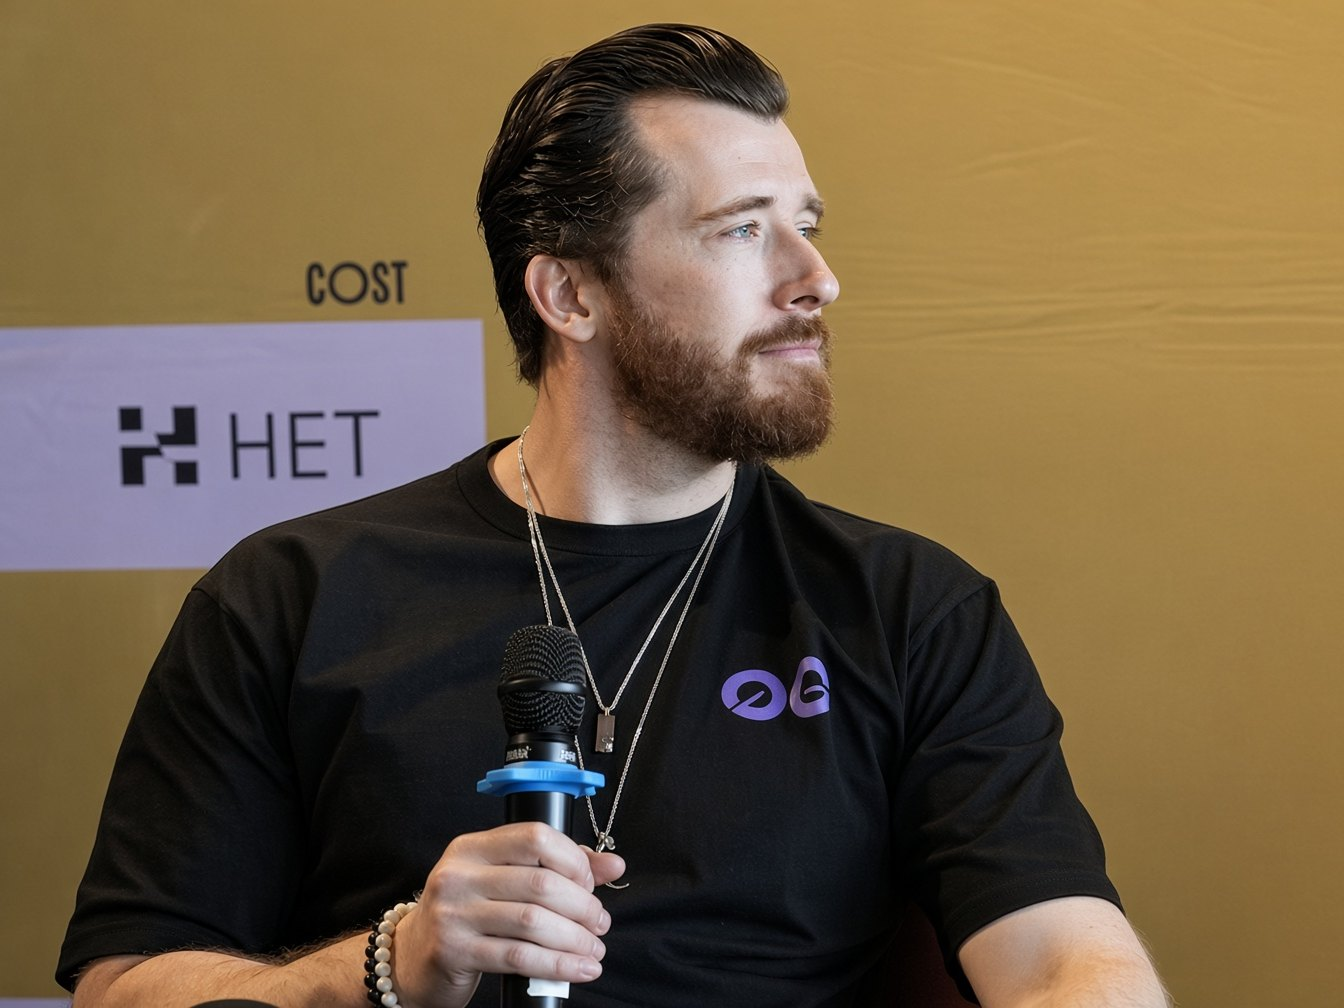
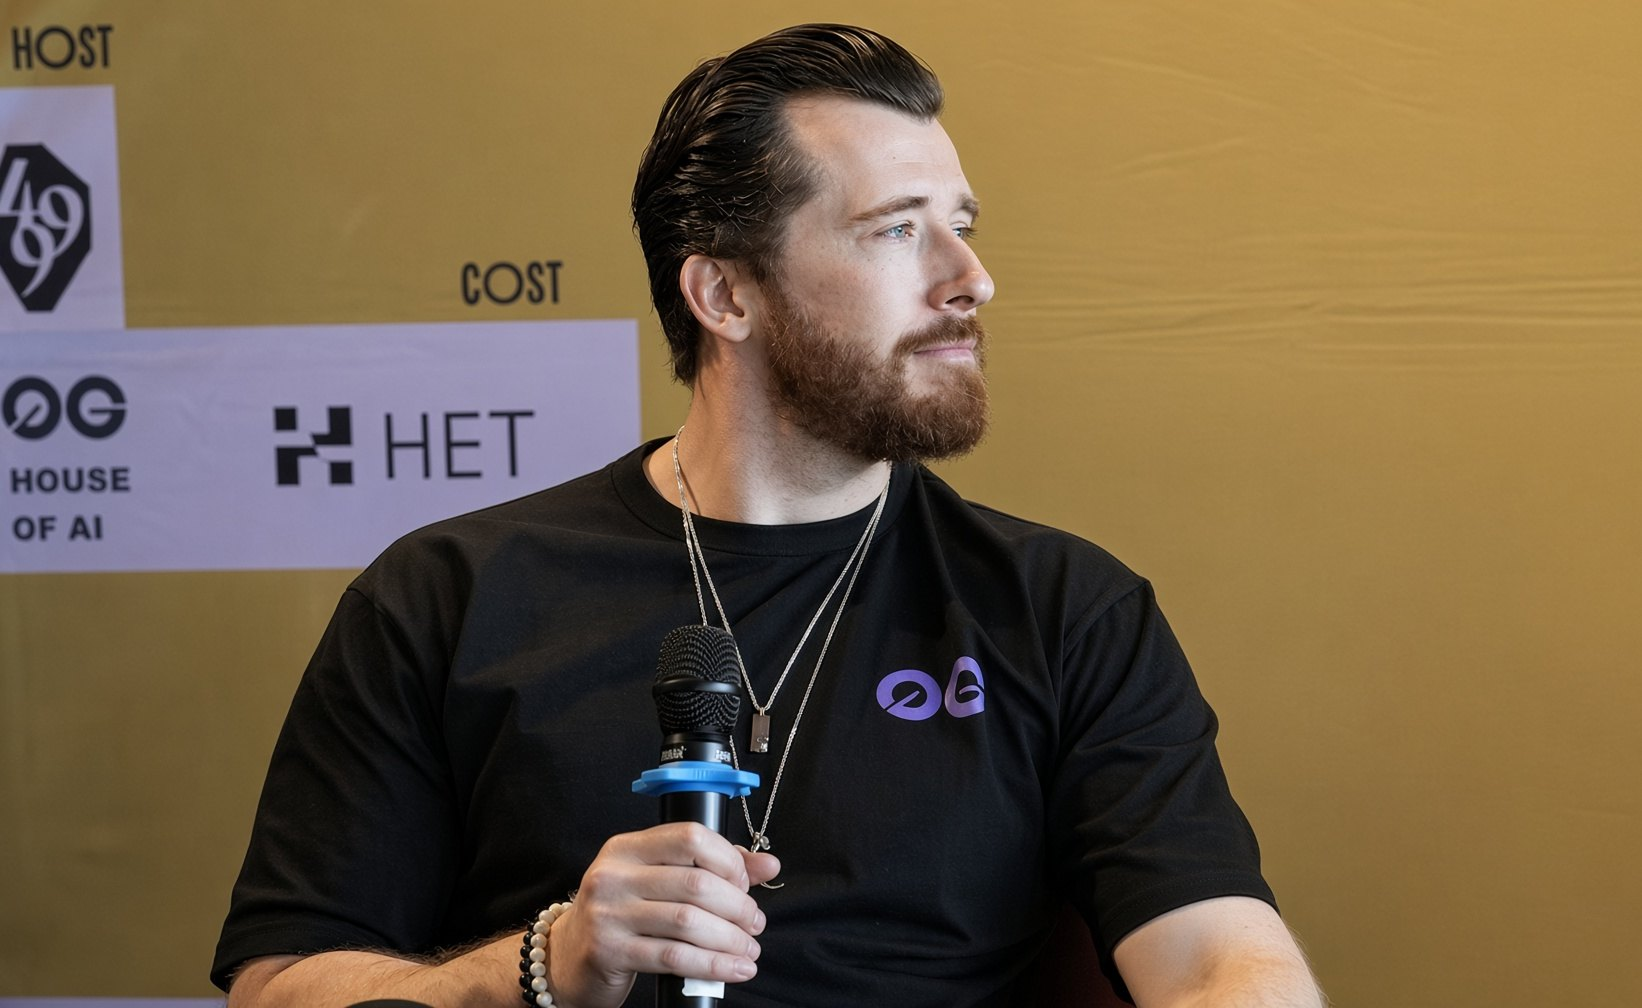
Widen hero crop to keep the placard and center the subject

diff --git a/src/content/site.ts b/src/content/site.ts
@@ -148,7 +148,7 @@ export const site: SiteContent = {
       src: "/images/hero.jpg",
       // Event identified from the stage backdrop in the photo; matches the ETHDenver talk below.
       alt: "Michael Dressler speaking on a panel at The Scaling Summit: House of AI, ETHDenver 2026",
-      width: 1344,
+      width: 1642,
       height: 1008,
     },
   },
